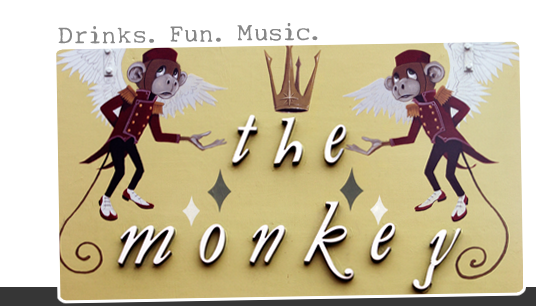
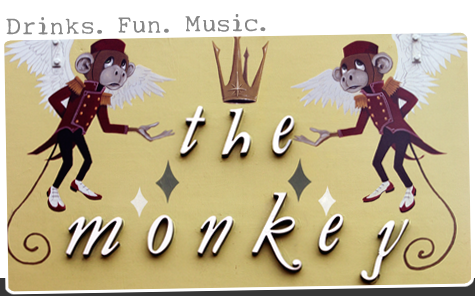
added featured image and resizing to calendar, resized home page images

diff --git a/static/styles.css b/static/styles.css
@@ -90,7 +90,7 @@ h2 {
 	padding: 2%;
 }
 .calendar-box {
-	width: 40%;
+	width: 70%;
 	padding: 0 2%;
 	margin-bottom: 3%;
 	border: 2px solid blue;
@@ -98,6 +98,38 @@ h2 {
 	-webkit-box-shadow: 10px 10px 5px 0px rgba(32,70,168,1);
 	-moz-box-shadow: 10px 10px 5px 0px rgba(32,70,168,1);
 	box-shadow: 10px 10px 5px 0px rgba(32,70,168,1);
+}
+
+.calendar-featured {
+	position:relative;
+	float:left;
+	clear:none;
+	overflow:hidden;
+
+}
+
+.calendar-featured img {
+	position:relative;
+	z-index:1;
+	width: 90%;
+	margin: 5%;
+	border: 1px solid gray;
+	border-radius: 5%;
+}
+
+.calendar-featured .desc {
+	  display:block;
+	  position:absolute;
+	  width:100%;
+	  top:30%;
+	  left:0;
+	  z-index:2;
+	  text-align:center;
+}
+
+h4 span {
+	color: #fff;
+	background: rgba(0, 0, 0, 0.7);
 }
 
 /*Slides*/
@@ -111,14 +143,14 @@ h2 {
 .slides {
   width: 100%;
   height: 100%;
-  margin: 0 auto 40px;
+  margin: 0 auto 50px;
 }
 .slide {
   width: 100%;
   height: 100%;
 }
 .slide-text {
-	padding: 5% 5% 2%;
+	padding: 5% 5% 1%;
 }
 
 .slide p {
@@ -136,8 +168,8 @@ h2 {
   opacity: 1;
 }
 .slide img {
-  width: 70%;
-  margin: 50px 50% 50px 10%;
+  width: 80%;
+  margin: 10%;
 }
 .blue {
   background: #3E89BE;
@@ -207,14 +239,14 @@ footer {
   }
   .grid-half {
     width: 80%;
-    margin: 0 10%;
+    margin: 5% 10%;
   }
   .slide img {
     width: 80%;
-    margin: 100px 10%;
+    margin: 5% 10%;
   }
   .slide p {
-  	font-size: 16px;	
+  	font-size: 18px;	
   }
 }
 
@@ -228,14 +260,14 @@ footer {
   }
   .grid-half {
     width: 80%;
-    margin: 0 10%;
+    margin: 5% 10%;
   }
   .slide img {
     width: 80%;
-    margin: 100px 10%;
+    margin: 5% 10%;
   }
   .slide p {
-  	font-size: 12px;
+  	font-size: 16px;
   }
 }
 
